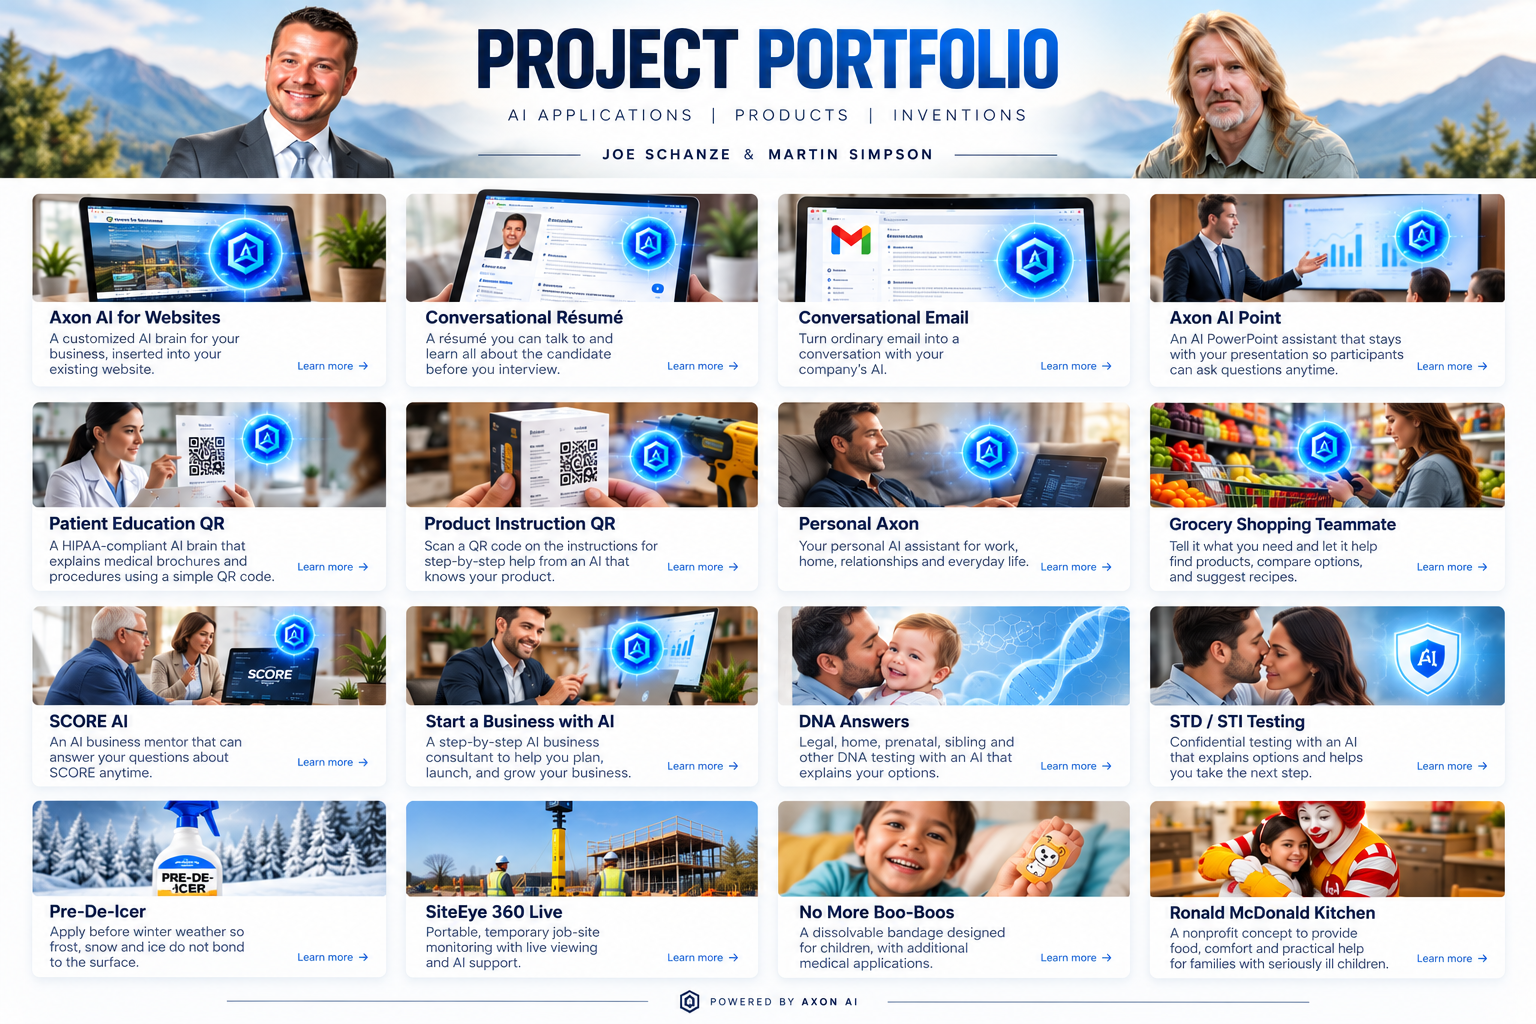
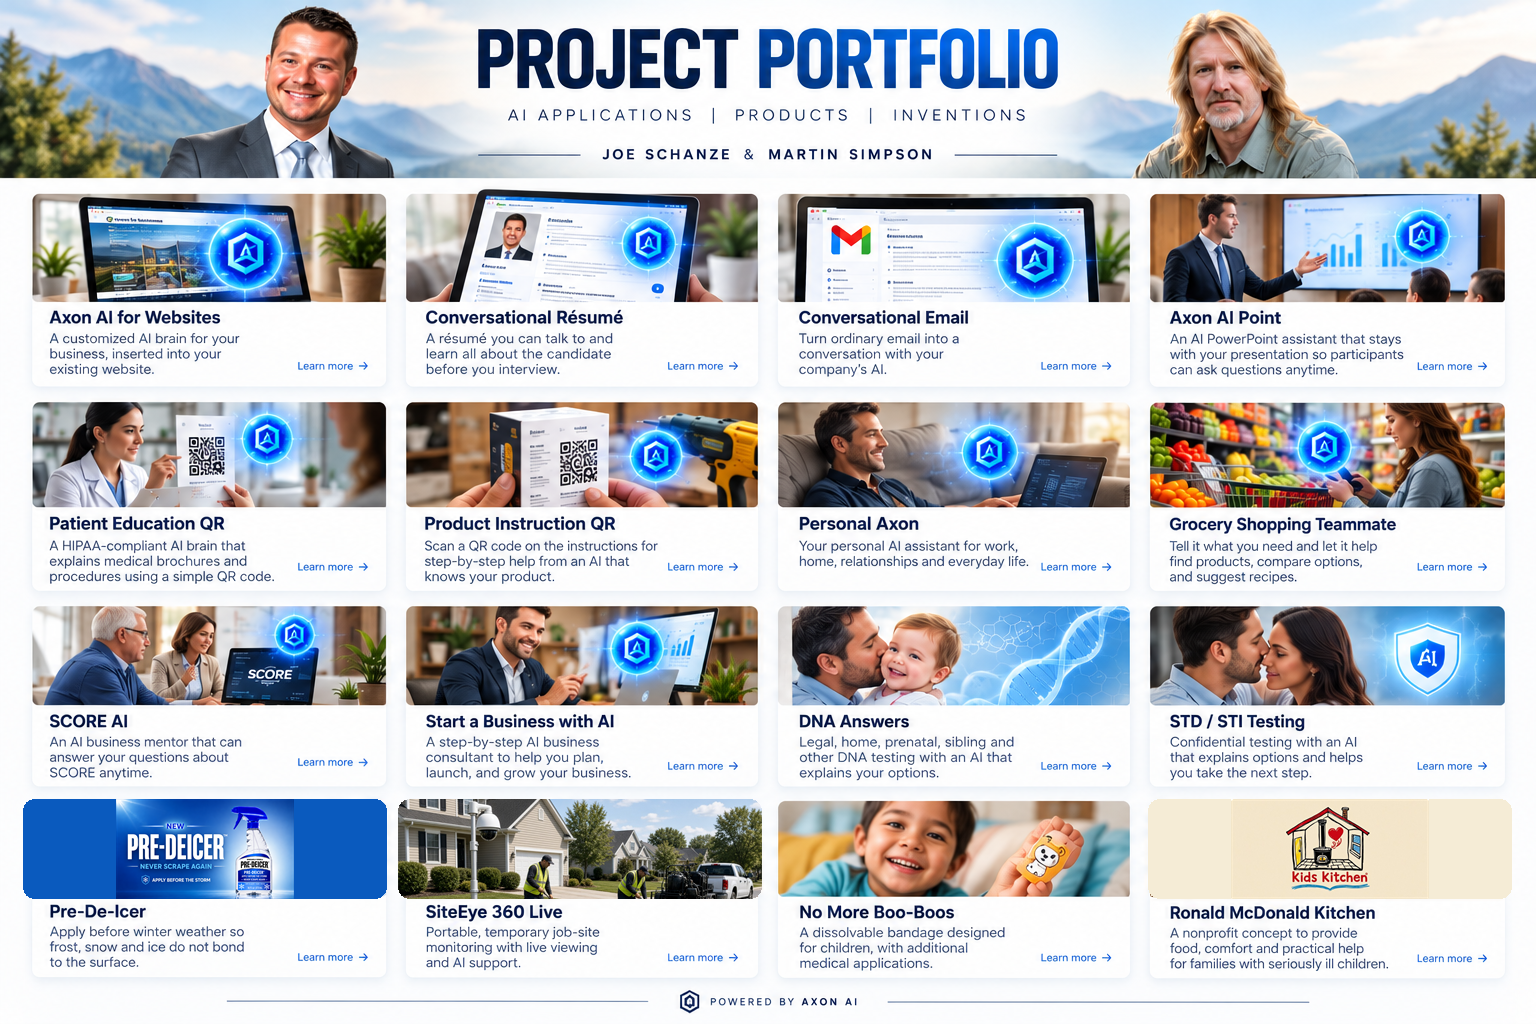
Replace the Pre-De-Icer, SiteEye, and Ronald McDonald Kitchen photos on the portfolio.

Changed region(s): [[0.0, 0.7812, 0.5, 0.875], [0.75, 0.7812, 1.0, 0.875]]

diff --git a/public/portfolio/projects.html b/public/portfolio/projects.html
@@ -22,7 +22,7 @@
 </head>
 <body>
 <div class="stage" id="stage">
-  <img class="art" src="/portfolio/assets/project-portfolio.png" width="1536" height="1024"
+  <img class="art" src="/portfolio/assets/project-portfolio.png?v=3" width="1536" height="1024"
        alt="Project Portfolio — AI applications, products, and inventions. Joe Schanze and Martin Simpson.">
   </div>
 <p class="who"><a href="/cv2/">Martin Simpson</a><span>Joe Schanze — résumé coming</span></p>
